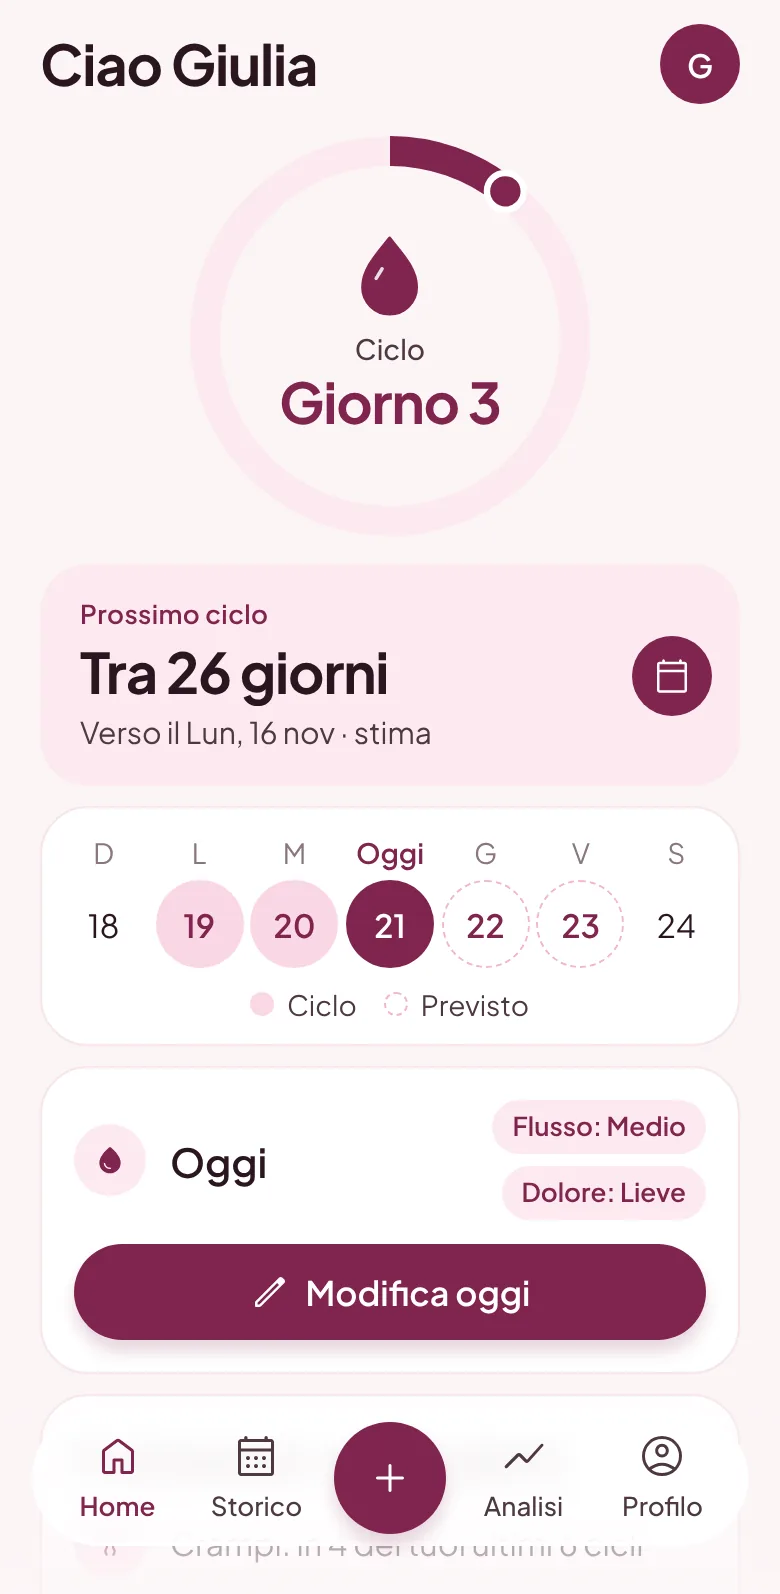
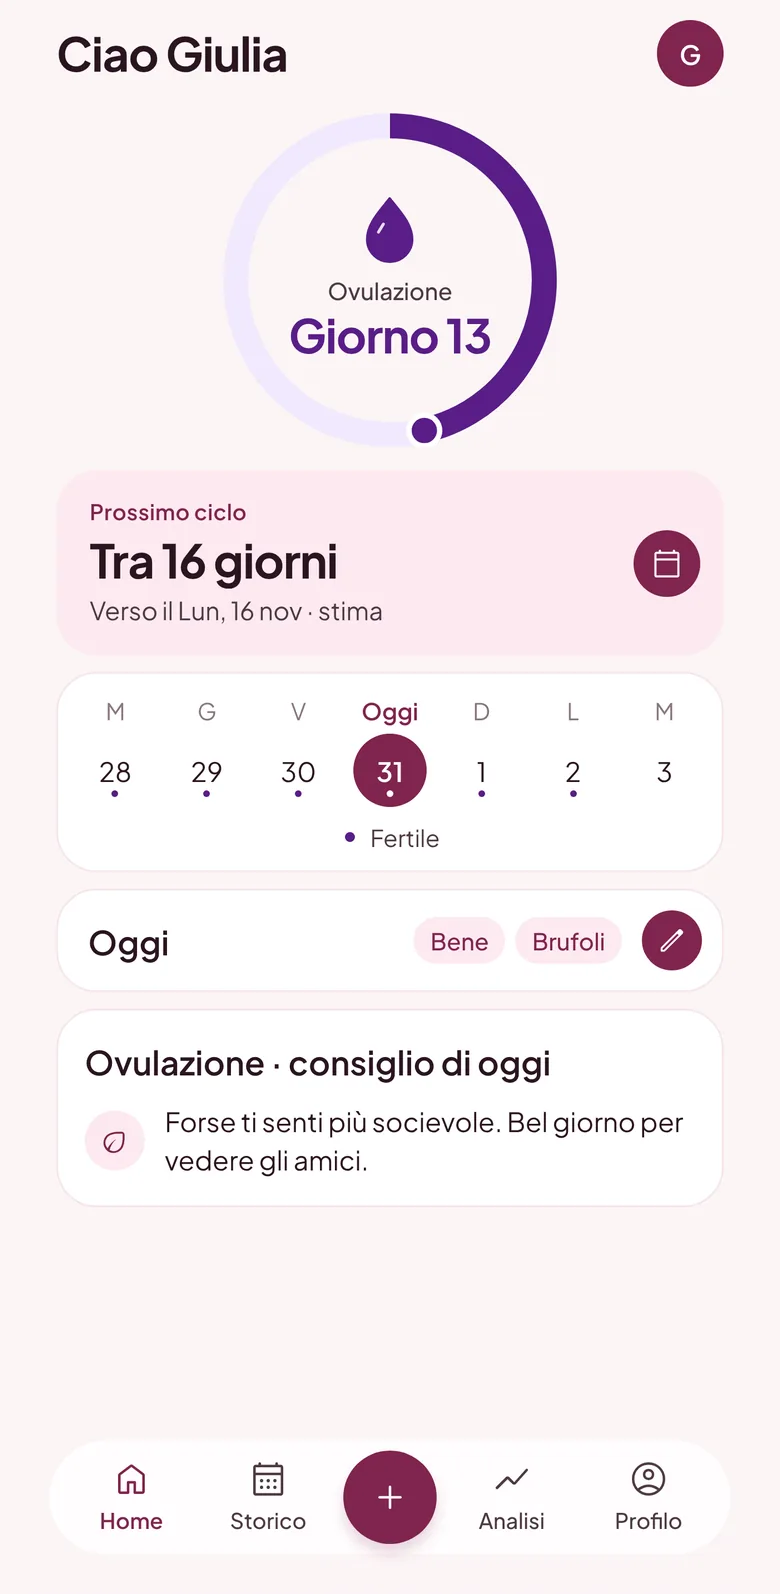
Home page: show 7 current app screens in each language
The phone on the home page showed 4 older screens (Home, History, Insights, Daily log). It now
shows 7 screens from the latest app, in each of the 6 languages: Home, Fertile days, Log a period,
History, Insights, Pregnancy and Reminders. They are made from the App Store raw shots and fitted
to the phone's screen without cropping. SCREENS_VERSION goes to 6 so browsers fetch the new files.

Claude-Session: https://claude.ai/code/session_01XSzBb5fZBBV25enSsoB3LB

diff --git a/pt-br/index.html b/pt-br/index.html
@@ -367,9 +367,9 @@
   <section class="stage" aria-label="Nilemy">
     <div class="phone">
       <div class="island" aria-hidden="true"></div>
-      <div class="screen"><div class="status" aria-hidden="true">9:41<i></i></div><div id="screen"><img src="/assets/screens/pt-br-home.webp?v=5" alt="Início" class="on" decoding="async" width="780" height="1594"><img src="/assets/screens/pt-br-history.webp?v=5" alt="Histórico" loading="lazy" decoding="async" width="780" height="1594"><img src="/assets/screens/pt-br-insights.webp?v=5" alt="Análise" loading="lazy" decoding="async" width="780" height="1594"><img src="/assets/screens/pt-br-daily.webp?v=5" alt="Registro do dia" loading="lazy" decoding="async" width="780" height="1594"></div></div>
+      <div class="screen"><div class="status" aria-hidden="true">9:41<i></i></div><div id="screen"><img src="/assets/screens/pt-br-home.webp?v=6" alt="Início" class="on" decoding="async" width="780" height="1594"><img src="/assets/screens/pt-br-fertile.webp?v=6" alt="Dias férteis" loading="lazy" decoding="async" width="780" height="1594"><img src="/assets/screens/pt-br-period.webp?v=6" alt="Registrar menstruação" loading="lazy" decoding="async" width="780" height="1594"><img src="/assets/screens/pt-br-history.webp?v=6" alt="Histórico" loading="lazy" decoding="async" width="780" height="1594"><img src="/assets/screens/pt-br-insights.webp?v=6" alt="Análise" loading="lazy" decoding="async" width="780" height="1594"><img src="/assets/screens/pt-br-pregnancy.webp?v=6" alt="Gravidez" loading="lazy" decoding="async" width="780" height="1594"><img src="/assets/screens/pt-br-reminders.webp?v=6" alt="Lembretes" loading="lazy" decoding="async" width="780" height="1594"></div></div>
     </div>
-    <div class="dots" id="dots"><button type="button" id="dot-home" aria-label="Início" aria-current="true"></button><button type="button" id="dot-history" aria-label="Histórico" aria-current="false"></button><button type="button" id="dot-insights" aria-label="Análise" aria-current="false"></button><button type="button" id="dot-daily" aria-label="Registro do dia" aria-current="false"></button></div>
+    <div class="dots" id="dots"><button type="button" id="dot-home" aria-label="Início" aria-current="true"></button><button type="button" id="dot-fertile" aria-label="Dias férteis" aria-current="false"></button><button type="button" id="dot-period" aria-label="Registrar menstruação" aria-current="false"></button><button type="button" id="dot-history" aria-label="Histórico" aria-current="false"></button><button type="button" id="dot-insights" aria-label="Análise" aria-current="false"></button><button type="button" id="dot-pregnancy" aria-label="Gravidez" aria-current="false"></button><button type="button" id="dot-reminders" aria-label="Lembretes" aria-current="false"></button></div>
   </section>
 </div>
 </div>

diff --git a/index.html b/index.html
@@ -386,9 +386,9 @@
   <section class="stage" aria-label="Nilemy">
     <div class="phone">
       <div class="island" aria-hidden="true"></div>
-      <div class="screen"><div class="status" aria-hidden="true">9:41<i></i></div><div id="screen"><img src="/assets/screens/tr-home.webp?v=5" alt="Ana sayfa" class="on" decoding="async" width="780" height="1594"><img src="/assets/screens/tr-history.webp?v=5" alt="Geçmiş" loading="lazy" decoding="async" width="780" height="1594"><img src="/assets/screens/tr-insights.webp?v=5" alt="Analiz" loading="lazy" decoding="async" width="780" height="1594"><img src="/assets/screens/tr-daily.webp?v=5" alt="Günlük kayıt" loading="lazy" decoding="async" width="780" height="1594"></div></div>
+      <div class="screen"><div class="status" aria-hidden="true">9:41<i></i></div><div id="screen"><img src="/assets/screens/tr-home.webp?v=6" alt="Ana sayfa" class="on" decoding="async" width="780" height="1594"><img src="/assets/screens/tr-fertile.webp?v=6" alt="Doğurgan günler" loading="lazy" decoding="async" width="780" height="1594"><img src="/assets/screens/tr-period.webp?v=6" alt="Adet kaydı" loading="lazy" decoding="async" width="780" height="1594"><img src="/assets/screens/tr-history.webp?v=6" alt="Geçmiş" loading="lazy" decoding="async" width="780" height="1594"><img src="/assets/screens/tr-insights.webp?v=6" alt="Analiz" loading="lazy" decoding="async" width="780" height="1594"><img src="/assets/screens/tr-pregnancy.webp?v=6" alt="Hamilelik" loading="lazy" decoding="async" width="780" height="1594"><img src="/assets/screens/tr-reminders.webp?v=6" alt="Hatırlatıcılar" loading="lazy" decoding="async" width="780" height="1594"></div></div>
     </div>
-    <div class="dots" id="dots"><button type="button" id="dot-home" aria-label="Ana sayfa" aria-current="true"></button><button type="button" id="dot-history" aria-label="Geçmiş" aria-current="false"></button><button type="button" id="dot-insights" aria-label="Analiz" aria-current="false"></button><button type="button" id="dot-daily" aria-label="Günlük kayıt" aria-current="false"></button></div>
+    <div class="dots" id="dots"><button type="button" id="dot-home" aria-label="Ana sayfa" aria-current="true"></button><button type="button" id="dot-fertile" aria-label="Doğurgan günler" aria-current="false"></button><button type="button" id="dot-period" aria-label="Adet kaydı" aria-current="false"></button><button type="button" id="dot-history" aria-label="Geçmiş" aria-current="false"></button><button type="button" id="dot-insights" aria-label="Analiz" aria-current="false"></button><button type="button" id="dot-pregnancy" aria-label="Hamilelik" aria-current="false"></button><button type="button" id="dot-reminders" aria-label="Hatırlatıcılar" aria-current="false"></button></div>
   </section>
 </div>
 </div>

diff --git a/fr/index.html b/fr/index.html
@@ -367,9 +367,9 @@
   <section class="stage" aria-label="Nilemy">
     <div class="phone">
       <div class="island" aria-hidden="true"></div>
-      <div class="screen"><div class="status" aria-hidden="true">9:41<i></i></div><div id="screen"><img src="/assets/screens/fr-home.webp?v=5" alt="Accueil" class="on" decoding="async" width="780" height="1594"><img src="/assets/screens/fr-history.webp?v=5" alt="Historique" loading="lazy" decoding="async" width="780" height="1594"><img src="/assets/screens/fr-insights.webp?v=5" alt="Analyse" loading="lazy" decoding="async" width="780" height="1594"><img src="/assets/screens/fr-daily.webp?v=5" alt="Suivi du jour" loading="lazy" decoding="async" width="780" height="1594"></div></div>
+      <div class="screen"><div class="status" aria-hidden="true">9:41<i></i></div><div id="screen"><img src="/assets/screens/fr-home.webp?v=6" alt="Accueil" class="on" decoding="async" width="780" height="1594"><img src="/assets/screens/fr-fertile.webp?v=6" alt="Jours fertiles" loading="lazy" decoding="async" width="780" height="1594"><img src="/assets/screens/fr-period.webp?v=6" alt="Noter les règles" loading="lazy" decoding="async" width="780" height="1594"><img src="/assets/screens/fr-history.webp?v=6" alt="Historique" loading="lazy" decoding="async" width="780" height="1594"><img src="/assets/screens/fr-insights.webp?v=6" alt="Analyse" loading="lazy" decoding="async" width="780" height="1594"><img src="/assets/screens/fr-pregnancy.webp?v=6" alt="Grossesse" loading="lazy" decoding="async" width="780" height="1594"><img src="/assets/screens/fr-reminders.webp?v=6" alt="Rappels" loading="lazy" decoding="async" width="780" height="1594"></div></div>
     </div>
-    <div class="dots" id="dots"><button type="button" id="dot-home" aria-label="Accueil" aria-current="true"></button><button type="button" id="dot-history" aria-label="Historique" aria-current="false"></button><button type="button" id="dot-insights" aria-label="Analyse" aria-current="false"></button><button type="button" id="dot-daily" aria-label="Suivi du jour" aria-current="false"></button></div>
+    <div class="dots" id="dots"><button type="button" id="dot-home" aria-label="Accueil" aria-current="true"></button><button type="button" id="dot-fertile" aria-label="Jours fertiles" aria-current="false"></button><button type="button" id="dot-period" aria-label="Noter les règles" aria-current="false"></button><button type="button" id="dot-history" aria-label="Historique" aria-current="false"></button><button type="button" id="dot-insights" aria-label="Analyse" aria-current="false"></button><button type="button" id="dot-pregnancy" aria-label="Grossesse" aria-current="false"></button><button type="button" id="dot-reminders" aria-label="Rappels" aria-current="false"></button></div>
   </section>
 </div>
 </div>

diff --git a/de/index.html b/de/index.html
@@ -367,9 +367,9 @@
   <section class="stage" aria-label="Nilemy">
     <div class="phone">
       <div class="island" aria-hidden="true"></div>
-      <div class="screen"><div class="status" aria-hidden="true">9:41<i></i></div><div id="screen"><img src="/assets/screens/de-home.webp?v=5" alt="Start" class="on" decoding="async" width="780" height="1594"><img src="/assets/screens/de-history.webp?v=5" alt="Verlauf" loading="lazy" decoding="async" width="780" height="1594"><img src="/assets/screens/de-insights.webp?v=5" alt="Analyse" loading="lazy" decoding="async" width="780" height="1594"><img src="/assets/screens/de-daily.webp?v=5" alt="Tagebuch" loading="lazy" decoding="async" width="780" height="1594"></div></div>
+      <div class="screen"><div class="status" aria-hidden="true">9:41<i></i></div><div id="screen"><img src="/assets/screens/de-home.webp?v=6" alt="Start" class="on" decoding="async" width="780" height="1594"><img src="/assets/screens/de-fertile.webp?v=6" alt="Fruchtbare Tage" loading="lazy" decoding="async" width="780" height="1594"><img src="/assets/screens/de-period.webp?v=6" alt="Periode eintragen" loading="lazy" decoding="async" width="780" height="1594"><img src="/assets/screens/de-history.webp?v=6" alt="Verlauf" loading="lazy" decoding="async" width="780" height="1594"><img src="/assets/screens/de-insights.webp?v=6" alt="Analyse" loading="lazy" decoding="async" width="780" height="1594"><img src="/assets/screens/de-pregnancy.webp?v=6" alt="Schwangerschaft" loading="lazy" decoding="async" width="780" height="1594"><img src="/assets/screens/de-reminders.webp?v=6" alt="Erinnerungen" loading="lazy" decoding="async" width="780" height="1594"></div></div>
     </div>
-    <div class="dots" id="dots"><button type="button" id="dot-home" aria-label="Start" aria-current="true"></button><button type="button" id="dot-history" aria-label="Verlauf" aria-current="false"></button><button type="button" id="dot-insights" aria-label="Analyse" aria-current="false"></button><button type="button" id="dot-daily" aria-label="Tagebuch" aria-current="false"></button></div>
+    <div class="dots" id="dots"><button type="button" id="dot-home" aria-label="Start" aria-current="true"></button><button type="button" id="dot-fertile" aria-label="Fruchtbare Tage" aria-current="false"></button><button type="button" id="dot-period" aria-label="Periode eintragen" aria-current="false"></button><button type="button" id="dot-history" aria-label="Verlauf" aria-current="false"></button><button type="button" id="dot-insights" aria-label="Analyse" aria-current="false"></button><button type="button" id="dot-pregnancy" aria-label="Schwangerschaft" aria-current="false"></button><button type="button" id="dot-reminders" aria-label="Erinnerungen" aria-current="false"></button></div>
   </section>
 </div>
 </div>

diff --git a/it/index.html b/it/index.html
@@ -367,9 +367,9 @@
   <section class="stage" aria-label="Nilemy">
     <div class="phone">
       <div class="island" aria-hidden="true"></div>
-      <div class="screen"><div class="status" aria-hidden="true">9:41<i></i></div><div id="screen"><img src="/assets/screens/it-home.webp?v=5" alt="Home" class="on" decoding="async" width="780" height="1594"><img src="/assets/screens/it-history.webp?v=5" alt="Storico" loading="lazy" decoding="async" width="780" height="1594"><img src="/assets/screens/it-insights.webp?v=5" alt="Analisi" loading="lazy" decoding="async" width="780" height="1594"><img src="/assets/screens/it-daily.webp?v=5" alt="Diario" loading="lazy" decoding="async" width="780" height="1594"></div></div>
+      <div class="screen"><div class="status" aria-hidden="true">9:41<i></i></div><div id="screen"><img src="/assets/screens/it-home.webp?v=6" alt="Home" class="on" decoding="async" width="780" height="1594"><img src="/assets/screens/it-fertile.webp?v=6" alt="Giorni fertili" loading="lazy" decoding="async" width="780" height="1594"><img src="/assets/screens/it-period.webp?v=6" alt="Segna il ciclo" loading="lazy" decoding="async" width="780" height="1594"><img src="/assets/screens/it-history.webp?v=6" alt="Storico" loading="lazy" decoding="async" width="780" height="1594"><img src="/assets/screens/it-insights.webp?v=6" alt="Analisi" loading="lazy" decoding="async" width="780" height="1594"><img src="/assets/screens/it-pregnancy.webp?v=6" alt="Gravidanza" loading="lazy" decoding="async" width="780" height="1594"><img src="/assets/screens/it-reminders.webp?v=6" alt="Promemoria" loading="lazy" decoding="async" width="780" height="1594"></div></div>
     </div>
-    <div class="dots" id="dots"><button type="button" id="dot-home" aria-label="Home" aria-current="true"></button><button type="button" id="dot-history" aria-label="Storico" aria-current="false"></button><button type="button" id="dot-insights" aria-label="Analisi" aria-current="false"></button><button type="button" id="dot-daily" aria-label="Diario" aria-current="false"></button></div>
+    <div class="dots" id="dots"><button type="button" id="dot-home" aria-label="Home" aria-current="true"></button><button type="button" id="dot-fertile" aria-label="Giorni fertili" aria-current="false"></button><button type="button" id="dot-period" aria-label="Segna il ciclo" aria-current="false"></button><button type="button" id="dot-history" aria-label="Storico" aria-current="false"></button><button type="button" id="dot-insights" aria-label="Analisi" aria-current="false"></button><button type="button" id="dot-pregnancy" aria-label="Gravidanza" aria-current="false"></button><button type="button" id="dot-reminders" aria-label="Promemoria" aria-current="false"></button></div>
   </section>
 </div>
 </div>

diff --git a/en/index.html b/en/index.html
@@ -367,9 +367,9 @@
   <section class="stage" aria-label="Nilemy">
     <div class="phone">
       <div class="island" aria-hidden="true"></div>
-      <div class="screen"><div class="status" aria-hidden="true">9:41<i></i></div><div id="screen"><img src="/assets/screens/en-home.webp?v=5" alt="Home" class="on" decoding="async" width="780" height="1594"><img src="/assets/screens/en-history.webp?v=5" alt="History" loading="lazy" decoding="async" width="780" height="1594"><img src="/assets/screens/en-insights.webp?v=5" alt="Insights" loading="lazy" decoding="async" width="780" height="1594"><img src="/assets/screens/en-daily.webp?v=5" alt="Daily log" loading="lazy" decoding="async" width="780" height="1594"></div></div>
+      <div class="screen"><div class="status" aria-hidden="true">9:41<i></i></div><div id="screen"><img src="/assets/screens/en-home.webp?v=6" alt="Home" class="on" decoding="async" width="780" height="1594"><img src="/assets/screens/en-fertile.webp?v=6" alt="Fertile days" loading="lazy" decoding="async" width="780" height="1594"><img src="/assets/screens/en-period.webp?v=6" alt="Log a period" loading="lazy" decoding="async" width="780" height="1594"><img src="/assets/screens/en-history.webp?v=6" alt="History" loading="lazy" decoding="async" width="780" height="1594"><img src="/assets/screens/en-insights.webp?v=6" alt="Insights" loading="lazy" decoding="async" width="780" height="1594"><img src="/assets/screens/en-pregnancy.webp?v=6" alt="Pregnancy" loading="lazy" decoding="async" width="780" height="1594"><img src="/assets/screens/en-reminders.webp?v=6" alt="Reminders" loading="lazy" decoding="async" width="780" height="1594"></div></div>
     </div>
-    <div class="dots" id="dots"><button type="button" id="dot-home" aria-label="Home" aria-current="true"></button><button type="button" id="dot-history" aria-label="History" aria-current="false"></button><button type="button" id="dot-insights" aria-label="Insights" aria-current="false"></button><button type="button" id="dot-daily" aria-label="Daily log" aria-current="false"></button></div>
+    <div class="dots" id="dots"><button type="button" id="dot-home" aria-label="Home" aria-current="true"></button><button type="button" id="dot-fertile" aria-label="Fertile days" aria-current="false"></button><button type="button" id="dot-period" aria-label="Log a period" aria-current="false"></button><button type="button" id="dot-history" aria-label="History" aria-current="false"></button><button type="button" id="dot-insights" aria-label="Insights" aria-current="false"></button><button type="button" id="dot-pregnancy" aria-label="Pregnancy" aria-current="false"></button><button type="button" id="dot-reminders" aria-label="Reminders" aria-current="false"></button></div>
   </section>
 </div>
 </div>

diff --git a/src/build.py b/src/build.py
@@ -25,8 +25,8 @@ SITE = 'https://nilemy.com'
 S = json.loads((SRC / 'strings.json').read_text(encoding='utf-8'))
 LANGS = list(S)  # Turkish first: it is the root
 PAGES = ['', 'story', 'privacy', 'terms', 'support']
-SCREENS = ['home', 'history', 'insights', 'daily']
-SCREENS_VERSION = 5  # bump when assets/screens change, so browsers fetch the new ones
+SCREENS = ['home', 'fertile', 'period', 'history', 'insights', 'pregnancy', 'reminders']
+SCREENS_VERSION = 6  # bump when assets/screens change, so browsers fetch the new ones
 DOC_CSS_VERSION = 2  # bump when assets/doc.css changes, for the same reason
 SHARE_IMAGE = '/assets/share.png'  # the picture shared links show, made from src/share.html (steps there)
 

diff --git a/README.md b/README.md
@@ -16,7 +16,7 @@ The landing page (the app on the first screen, then our story and the footer) an
 ## Other files
 
 - `assets/doc.css` styles the text pages; the landing page has its CSS inline.
-- `assets/screens/<lang>-{home,history,insights,daily}.webp` are real app screens in each language (390×797 pt at 2×, under a drawn status bar). Regenerate them from a web export of the app when its look changes, and bump `SCREENS_VERSION` in `src/build.py`.
+- `assets/screens/<lang>-{home,fertile,period,history,insights,pregnancy,reminders}.webp` are real app screens in each language, made from the App Store raw shots (`app-review/2.1.0-ekran-goruntuleri/ham/` in the project files, 440×956 pt web export) scaled to 780×1594 under a drawn status bar. Regenerate them when the app's look changes, and bump `SCREENS_VERSION` in `src/build.py`.
 - Fonts (Plus Jakarta Sans) are served from `assets/fonts/`, with no calls to Google Fonts.
 - The App Store button links to the live listing. The Google Play button is marked as coming soon and goes nowhere until the Android app is out.
 - `favicon.ico` (16/32/48) and `assets/favicon-192.png` are the logo mark for browsers and search results.
